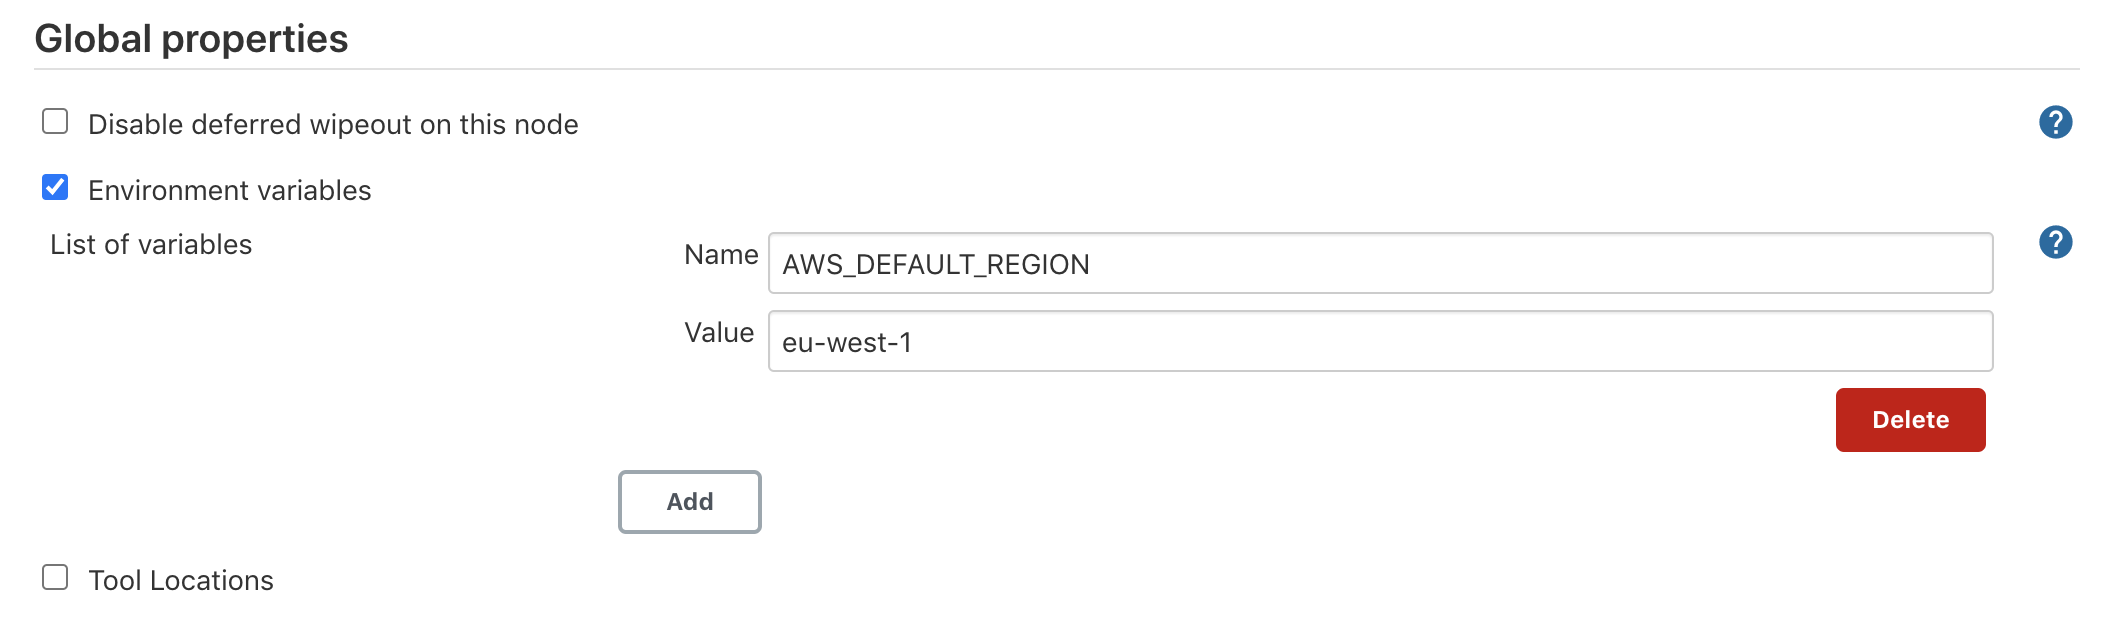
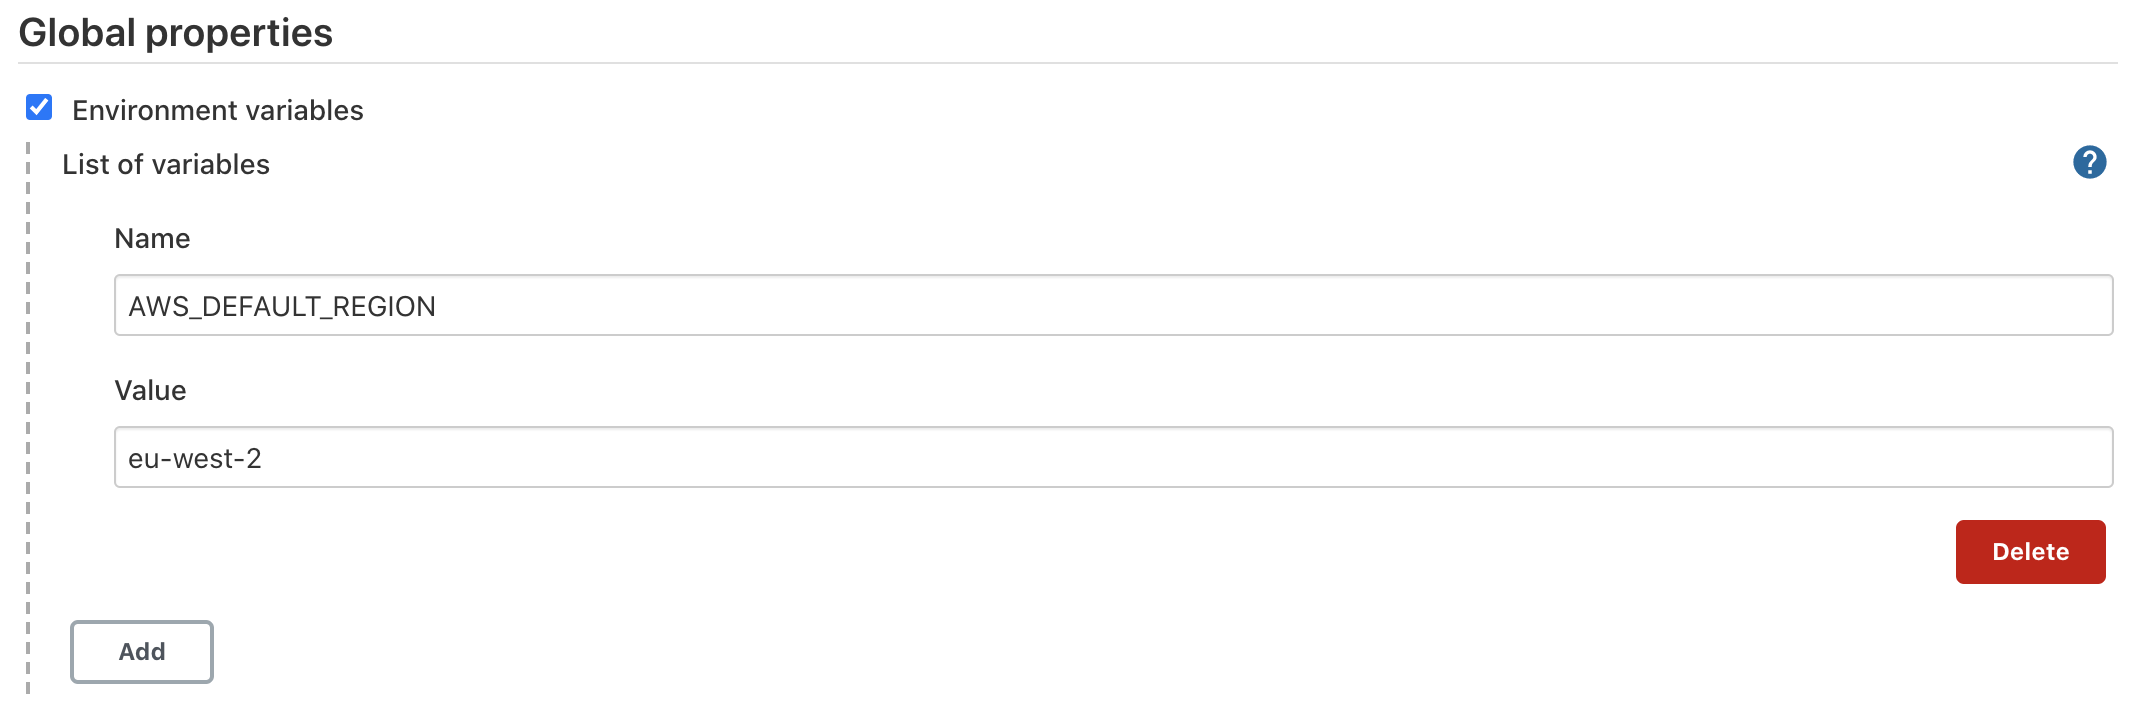
Changing name of resources by adding playground prefix

diff --git a/README.md b/README.md
@@ -13,21 +13,55 @@ Still with me? Ok, lets get to it...
 
 # Initial setup
 
+## GitHub
+
 If you don't already have a GitHub account then please sign up [here](https://github.com/join?ref_cta=Sign+up&ref_loc=header+logged+out&ref_page=%2F&source=header-home).
 
 We will be using one repository for this playground:
-1. The [react-app-devops-playground](https://github.com/richieganney/react-app-devops-playground) repository. This is the repository you're currently in, and it contains all the application code and scripts that we will need to actually deploy the web app to AWS.
+1. The [react-app-devops-playground](https://github.com/DevOpsPlayground/Hands-on-with-Jenkins-Terraform-and-AWS) repository. This is the repository you're currently in, and it contains all the application code and scripts that we will need to actually deploy the web app to AWS.
 
-You will also have a Jenkins server that the playground team have spun up for you this evening...(instructions on how to reach their server)
+You will also have a Jenkins server that the playground team have spun up for you this evening...
+
+## Terminal and VS Code
+
+If you are using our provided workstations tonight, visit [this site](https://digital-meetup-signed-users.s3-eu-west-1.amazonaws.com/index.html) and type your **Meetup username** into the form. Then press submit and you should see
+1. **Username**
+2. **Password**
+3. **Terminal**: this is terminal we have spun up for you to run commands
+4. **IDE**: a workstation with VS Code installed to edit files
+5. **Jenkins**: the Jenkins instance you'll be using tonight
+
+![](readme_images/instance_details.png)
+
+> IMPORTANT: You'll need a unique animal identifier for tonight. You can find this prefixed on your **Terminal** and **IDE** urls. For example in the example above, my animal name would be **bengal**
+
+Keep this animal safe somewhere on your machine.
+
+Once you have logged into your *remote* terminal (the one we have provided), you will need to change into the `WorkDir` directory by running:
+```
+cd WorkDir
+```
+Anything in this directory will show up on your VS Code workstation.
 
 # Section 1 - the first script: build the Pipeline as Code script.
 
 First and foremost, you all need your own forked repository so you all have your own individual repos you can commit to.
 
 ### 1. Fork the repository
-Go to the [react-app-devops-playground](https://github.com/richieganney/react-app-devops-playground) and click `fork`
+Go to the [react-app-devops-playground](https://github.com/DevOpsPlayground/Hands-on-with-Jenkins-Terraform-and-AWS) and click `fork`
 
 ![](readme_images/fork.png)
+
+You can copy the url of the repository from the GitHub user interface like so:
+![](readme_images/copy_url.png)
+
+Pull down your **forked** [react-app-devops-playground](https://github.com/DevOpsPlayground/Hands-on-with-Jenkins-Terraform-and-AWS) repository and cd into it. In your terminal, run:
+```
+git clone <FORKED_REPOSITORY>
+cd <FORKED_REPOSITORY>
+```
+
+Replace `<FORKED_REPOSITORY>` with your forked repository url
 
 Navigate to the forked repository and click in the `jobs` folder. You should see an empty file called `DeployReactApp.groovy`
 
@@ -111,20 +145,21 @@ the `parameters {}` block allows us to define any parameters we want our pipelin
 
 Here we are using the `definition {}` block to specify the Git repository. You will notice two variables that we will be passing into the seed job when we build it:
 
-- `GIT_USER`: this will be the credentials to your personal GitHub account so Jenkins can pull down the repo (don't worry, we haven't configured this yet).
-- `GIT_URL`: this is the url of your forked [react-app-devops-playground](https://github.com/richieganney/react-app-devops-playground) repository.
+- `GIT_USER`: this will be the credentials to your personal GitHub account so Jenkins can clone the repo (don't worry, we haven't configured this yet).
+- `GIT_URL`: this is the url of your forked [react-app-devops-playground](https://github.com/DevOpsPlayground/Hands-on-with-Jenkins-Terraform-and-AWS) repository.
 
 The `scriptPath('')` function defines the file path to the pipeline script that will be used to deploy our application. We'll come back onto this in Section 3
 
 # How to commit and push to master?
 
-1. If you haven't already done so, pull down your **forked** [react-app-devops-playground](https://github.com/richieganney/react-app-devops-playground) repository and cd into it. In your terminal, run:
+1. If you haven't already done so, clone down your **forked** [react-app-devops-playground](https://github.com/DevOpsPlayground/Hands-on-with-Jenkins-Terraform-and-AWS) repository and cd into it. 
+> note: remember to cd into `WorkDir` first if you are using the terminal we provided for you
+
+Now run:
 ```
-git pull <FORKED_REPOSITORY>
+git clone <FORKED_REPOSITORY>
 cd <FORKED_REPOSITORY>
 ```
-Replace `<FORKED_REPOSITORY>` with your forked repository. You can copy the url of the repository from the GitHub user interface like so:
-![](readme_images/copy_url.png)
 
 2. Open the repository in your text editor (I'm using VS Code) and click on the `DeployReactApp.groovy` script.
 ![](readme_images/jenkins_dsl.png)
@@ -132,27 +167,23 @@ Replace `<FORKED_REPOSITORY>` with your forked repository. You can copy the url 
 3. Copy the entire script and paste it into the file. Make sure the `defaultValue` of `UNIQUE_ANIMAL_IDENTIFIER` has been changed.
 ![](readme_images/pasted_jenkins_dsl.png)
 
-4. Add the file to git, commit it and push it to the master branch. In your terminal, in the root directory of the repository, run the following commands:
+4. Before we commit, we just need to do some git configuration:
+
+If you are using provided workstations you will need to configure git by typing:
 
 ```
-git add .
-git commit -m "Populating the Jenkins seed job script"
-git push -u origin master
+git config --global user.name "Your Name"
+git config --global user.email "youremail@domain.com"
 ```
+> Note: You do not need to provide your real name or email
 
-Now let's move onto section 2...
+If you are using provided workstations you will need to authenticate to push. We advise you to use GitHub access token.
 
-# Section 2: Configure Jenkins and then build the seed job.
+When the command line prompts you for your password, you can just paste your access token instead of your password and it will authenticate you:
 
-In this section we will:
-- Add our GitHub credentials to Jenkins globally so that it can interact with our repositories.  
-- Configure Jenkins to use NodeJS so it can build and test our React application.
-- Configure Jenkins with Terraform so it can run `terraform` commands.
-- Configure Jenkins with AWS so it can deploy our application.
+![](readme_images/git_push.png)
 
-Let's dive straight in...
-
-### 1. Generate an access token from GitHub
+## How to generate an access token from GitHub
 
 - Go over to your GitHub and click the dropdown arrow next to your profile picture at the top right. Then click **Settings**
 ![](readme_images/gh.png)
@@ -166,10 +197,30 @@ Let's dive straight in...
 ![](readme_images/user.png)
 ![](readme_images/gen.png)
 - This will take you to a page where your token will be displayed.
-> IMPORTANT: you will only be shown your token once, so copy it by clicking that little clipboard to the right of the token and save it on your machine somewhere. We'll need it for the next part.
+> IMPORTANT: you will only be shown your token once, so copy it by clicking that little clipboard to the right of the token and save it on your machine somewhere. We'll not only need it for the command line authentication, but also for the next section.
 ![](readme_images/token.png)
 
-### 2. Configure GitHub access token gloablly
+Now run the following commands to push up to your master branch.
+```
+git add .
+git commit -m "Populating the Jenkins seed job script"
+git push -u origin master
+```
+And as mentioned before, you can paste your access token straight into the command line when it prompts you for your password.
+
+Now let's move onto section 2...
+
+# Section 2: Configure Jenkins and then build the seed job.
+
+In this section we will:
+- Add our GitHub credentials to Jenkins globally so that it can interact with our repositories.  
+- Configure Jenkins to use NodeJS so it can build and test our React application.
+- Configure Jenkins with Terraform so it can run `terraform` commands.
+- Configure Jenkins with AWS so it can deploy our application.
+
+Let's dive straight in...
+
+### 1. Configure GitHub access token gloablly
 
 Once logged into Jenkins, click...
 - **Manage Jenkins > Manage Credentials**
@@ -212,7 +263,7 @@ All of the plugins for this playground have been pre-installed on your Jenkins s
 ![](readme_images/terraform_installation_details.png)
     - Name: **terraform**
     - Install Automatically: (box checked)
-    - Version: **Terraform 0.13.3 linux (amd64)**
+    - Version: **Terraform 00923 linux (amd64)**
 - Click **Save** which will take you back to the homepage.
 
 ### 4. Configure Jenkins with an AWS region so it knows where to deploy it to. Navigate to:
@@ -225,7 +276,8 @@ All of the plugins for this playground have been pre-installed on your Jenkins s
 
 - Fill in the fields with the following information:
     - Name: **AWS_DEFAULT_REGION**
-    - Value: **eu-west-1**
+    - Value: **eu-west-2**
+
 ![](readme_images/aws_region.png)
 - Click save and we are done with the Jenkins configuration!
 
@@ -240,11 +292,11 @@ This will hold the Groovy code that will build our CI/CD pipeline.
 - Now we need to configure this pipeline:
     - Select **This project is parameterized** and add **TWO** string paramters by clicking **Add Parameter > String Parameter** ![](readme_images/parameterised.png)
     - Add the two variables we saw in Section 1, which were `GIT_USER` and `GIT_URL`. Leave **Default Value** and **Description** blank.
-    - In the **Source Code Management** section, select the **Git** radio button. Fill in **Repository URL** with your forked [react-app-devops-playground](https://github.com/richieganney/react-app-devops-playground) repository and **Credentials** with your credentials that we configured earlier. ![](readme_images/scm.png). Leave the branch as master.
+    - In the **Source Code Management** section, select the **Git** radio button. Fill in **Repository URL** with your forked [react-app-devops-playground](https://github.com/DevOpsPlayground/Hands-on-with-Jenkins-Terraform-and-AWS) repository and **Credentials** with your credentials that we configured earlier. ![](readme_images/scm.png). Leave the branch as master.
     - Lastly, we need to add a build step. In the **Build** section, select **Add build step > Process Job DSLs**. Fill in the **DSL Scripts** section with the file path to our DSL script. The path is `jobs/DeployReactApp.groovy` and it will look like this: ![](readme_images/dsl_build_step.png)
     Click **Save** and the configuration is done!
 
-Before we move onto part three of this section, we need to fork the [react-app-devops-playground](https://github.com/richieganney/react-app-devops-playground) repository, which is the one that holds the application code we need to deploy.
+Before we move onto part three of this section, we need to fork the [react-app-devops-playground](https://github.com/DevOpsPlayground/Hands-on-with-Jenkins-Terraform-and-AWS) repository, which is the one that holds the application code we need to deploy.
 
 So in the same way we forked the Jenkins DSL repository earlier, follow the link above and fork it to your personal GitHub. We will need the URL of this forked repository in just a moment...
 
@@ -256,7 +308,7 @@ Now go back to Jenkins so we can trigger a build to create our CI pipeline.
 ![](readme_images/build_with_params.png)
 - Fill in the fields like so:
     - `GIT_USER`: the username to your personal GitHub
-    - `GIT_URL`: the url of the *forked* [react-app-devops-playground](https://github.com/richieganney/react-app-devops-playground) repository. The image below shows how you can copy the url to your clipboard from the GitHub interface. ![](readme_images/copy_url.png)
+    - `GIT_URL`: the url of the *forked* [react-app-devops-playground](https://github.com/DevOpsPlayground/Hands-on-with-Jenkins-Terraform-and-AWS) repository. The image below shows how you can copy the url to your clipboard from the GitHub interface. ![](readme_images/copy_url.png)
 - Select **Build**
 
 We should have a successful build. The most recent ball under **Build History** should be blue. If you click that ball you'll see the following message in the logs.
@@ -267,20 +319,13 @@ Existing items:
 Finished: SUCCESS
 ```
 
-If you go the Jenkins homepage (you can always do this by clicking the large **Jenkins** icon at the top left of the user interface) you'll see our new pipeline `Deploy-React-App` which will have all the configuration we need. 
+If you go the Jenkins homepage (you can always do this by clicking the large **Jenkins** icon at the top left of the user interface) you'll see our new pipeline `Deploy-React-App` which will have all the configuration we need.
 
-Now all we need to do is populate the `Jenkinsfile` and the `variables.tf` file in the forked [react-app-devops-playground](https://github.com/richieganney/react-app-devops-playground) repository, commit the code, and watch it deploy our application.
+Now all we need to do is populate the `Jenkinsfile` and the `variables.tf` file in the forked [react-app-devops-playground](https://github.com/DevOpsPlayground/Hands-on-with-Jenkins-Terraform-and-AWS) repository, commit the code, and watch it deploy our application.
 
 Onto Section 3...
 
 # Section 3: populate the `Jenkinsfile` and the `variables.tf` file.
-
-Pull down your [forked react repo](https://github.com/richieganney/react-app-devops-playground) to your local machine:
-
-```
-git pull <FORKED_REACT_REPO>
-cd <FORKD_REACT_REPO>
-```
 
 1. Similar to how we populated the Jenkins DSL script, copy the code below paste it into the `Jenkinsfile` located in the root of this directory.
 
@@ -428,15 +473,6 @@ Now that we have pushed the changes, let's go back to Jenkins to see if the **De
 
 You should see the output of all the various stages of our deployment.
 
-### 4. At the bottom, you'll see the following message:
-```
-Application successfully deployed! Please visit http://<ELB_DOMAIN_NAME> in your browser to view it.
-```
-Click the link to see the deployed website!
-> Note: it will take a couple of minutes for the application to deploy, so don't be alarmed if the link isn't working just yet. It will!
-
-AWS lets you utilise resources such as [Amazon Route 53](https://www.google.com/search?q=route+53+aws&oq=route+53+aws&aqs=chrome..69i57j0l5j69i60l2.3169j0j7&sourceid=chrome&ie=UTF-8) to set up domains to your websites. Check out the link above for the documentation.
-
 ### While we wait..
 
 It should be a couple of minutes until the website is live. While we wait, lets go through whats happening from an end to end perspective.
@@ -445,9 +481,21 @@ It should be a couple of minutes until the website is live. While we wait, lets 
 
 1. A build folder is created which packages up our application.
 2. We zip up that folder and send it off to Amazon S3.
-3. When the infrastructure is provisioned, the deployed servers will pull down that build zip file and unzip it.
-4. The build package is ultimately served on port 80 (http://), which allows the public to visit and use the website.
+3. Terraform is initialised and provisions a load balancer and an autoscaling group into a virtual private cloud (VPC)
+4. When the infrastructure is provisioned, the deployed servers will pull down that build zip file and unzip it.
+5. The build package is then ultimately served on port 80 (http://), which allows the public to visit and use the website.
 
 #### Our infrastructure
 - **load balancer**: this will distribute traffic across our servers depending on the health and utilisation of those servers. If one is in poor health, it will redirect traffic to a healthy one.
 - **autoscaling group**: this will automatically scale our application up/down depending on how we configure it. If we have an unexpected surge in traffic, it will provision more servers to make the application more available
+
+### 4. At the bottom of the logs, you'll see the following message:
+```
+Application successfully deployed! Please visit http://<ELB_DOMAIN_NAME> in your browser to view it.
+```
+Click the link to see the deployed website!
+> Note: it will take a couple of minutes for the application to deploy, so don't be alarmed if the link isn't working just yet. It will!
+
+AWS lets you utilise resources such as [Amazon Route 53](https://www.google.com/search?q=route+53+aws&oq=route+53+aws&aqs=chrome..69i57j0l5j69i60l2.3169j0j7&sourceid=chrome&ie=UTF-8) to set up domains to your websites. Check out the link above for the documentation.
+
+Thats all for tonight! Thanks for joining, I hope you enjoyed it!
